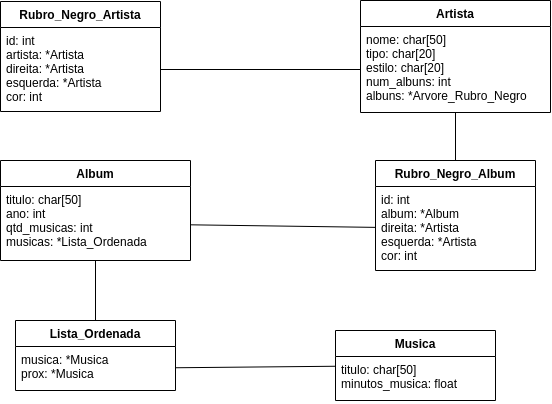
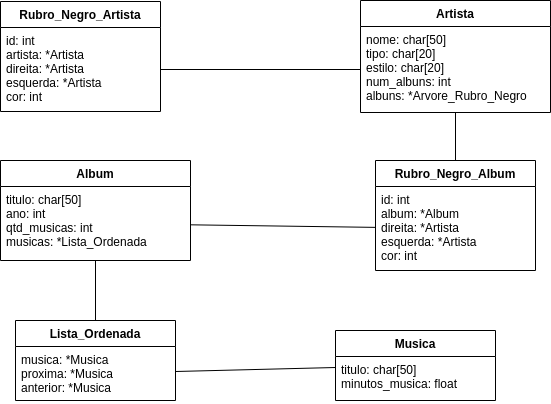
Estrutura ED II

diff --git a/ED II/TB_II/src/artista.c b/ED II/TB_II/src/artista.c
@@ -1,0 +1,32 @@
+#include <stdio.h>
+#include <stdlib.h>
+#include "musica.c"
+#define VERMELHO 1
+#define PRETO 0 
+
+typedef struct RB_artista
+{
+    int id;
+    int cor;
+    Artista *artista;
+    Artista *esquerda;
+    Artista *direita;
+    
+}RB_artista;
+
+
+typedef struct Artista
+{
+    char nome[50];
+    char tipo[20];
+    char estilo[20];
+    int num_albuns;
+    struct Album * Album;
+
+}Artista;
+
+
+
+
+
+

diff --git a/ED II/TB_II/src/album.c b/ED II/TB_II/src/album.c
@@ -1,0 +1,22 @@
+#include <stdio.h>
+#include "musica.c"
+
+typedef struct Album
+{
+    char titulo[50];
+    int ano;
+    int qtd_musicas;
+    Lista_musicas *musicas;
+
+}Album;
+
+
+typedef struct RB_album
+{
+    int id;
+    int cor;
+    Album *album;
+    Album *esquerda;
+    Album *direita;
+
+}RB_album;

diff --git a/ED II/TB_II/src/musica.c b/ED II/TB_II/src/musica.c
@@ -1,0 +1,16 @@
+#include <stdio.h>
+
+typedef struct Musica
+{
+    char titulo[50];
+    float minutos;
+
+}Musica;
+
+typedef struct Lista_musicas 
+{
+    Musica *musica;
+    Musica *proxima;
+    Musica *anterior;
+
+}Lista_musicas;

diff --git a/ED II/TB_II/main.c b/ED II/TB_II/main.c
@@ -1,0 +1,9 @@
+#include "src/album.c"
+#include "src/artista.c"
+#include "src/musica.c"
+
+int main(void)
+{
+    
+    return 0;
+}
